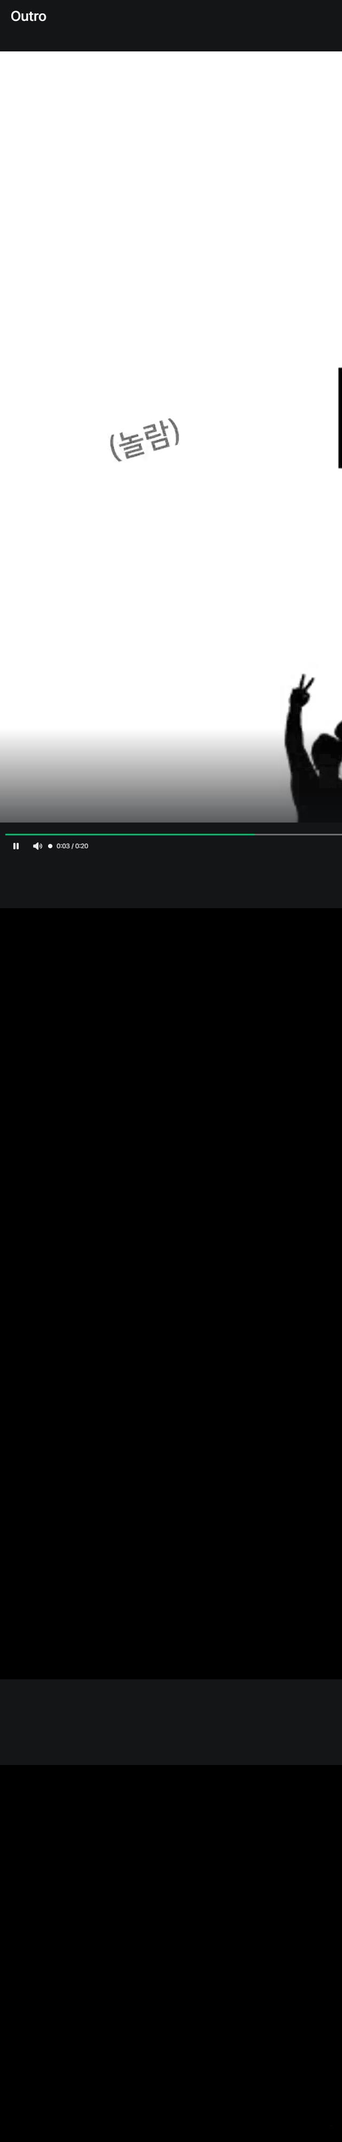
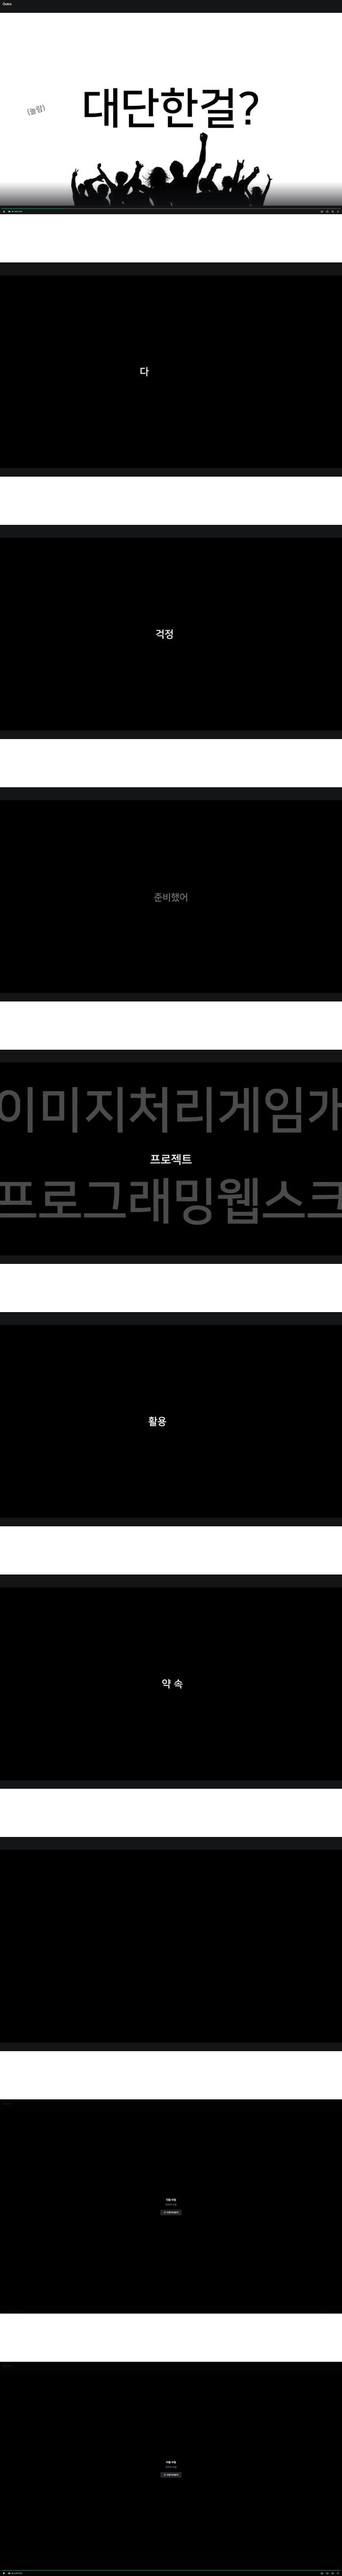
docs: `README.md` - gui_project 이미지 통합시 이미지 간격 및 확장자 옵션 적용2 예제 및 가이드

diff --git a/gui_project/docs/README.md b/gui_project/docs/README.md
@@ -1584,7 +1584,7 @@ heights = (480, 600, 768)
 이전 단계에서는 이미지들의 원본 크기를 기준으로 결과 이미지의 전체 크기를 계산했다.  
 이번 단계에서는 사용자가 선택한 `가로넓이` 옵션을 반영해서, 이미지가 병합될 때 사용할 크기를 먼저 계산한다.  
 
-즉, 기존에는 `x.size`를 그대로 사용했다면, 이제는 `원본 유지`인지, `1024`, `800`, `640`처럼 지정된 너비인지에 따라 `imgage_sizes` 목록을 새로 만든다.  
+즉, 기존에는 `x.size`를 그대로 사용했다면, 이제는 `원본 유지`인지, `1024`, `800`, `640`처럼 지정된 너비인지에 따라 `image_sizes` 목록을 새로 만든다.  
 
 ## 1. A) 기존 크기 계산 방식
 
@@ -1640,19 +1640,19 @@ heights = (480, 600, 768)
     images = [Image.open(x) for x in list_file.get(0, END)] # 이미지 객체 저장
 
     # 이미지 사이즈 리스트에 넣어 하나씩 처리
-    imgage_sizes = [] # (width1, height1), (width2, height2)
+    image_sizes = [] # (width1, height1), (width2, height2)
     if img_width > -1:
       # width 값 변경
-      imgage_sizes = [(int(img_width), int(img_width * x.size[1] / x.size[0])) for x in images]
-      print("image_sizes = ", imgage_sizes)
+      image_sizes = [(int(img_width), int(img_width * x.size[1] / x.size[0])) for x in images]
+      print("image_sizes = ", image_sizes)
     else:
       # 원본 사이즈 사용
-      imgage_sizes = [(x.size[0], x.size[1]) for x in images]
+      image_sizes = [(x.size[0], x.size[1]) for x in images]
 
     # 생략
   ```
 
-기존에는 `x.size`에서 바로 가로와 세로를 꺼냈지만, 이제는 먼저 `imgage_sizes`라는 별도 목록을 만든다.  
+기존에는 `x.size`에서 바로 가로와 세로를 꺼냈지만, 이제는 먼저 `image_sizes`라는 별도 목록을 만든다.  
 이 목록에는 최종 계산에 사용할 `(width, height)` 값들이 들어간다.  
 
 - 원본 유지: `(원본 width, 원본 height)`
@@ -1673,7 +1673,7 @@ heights = (480, 600, 768)
   ```py
   def merge_image():
     # 생략
-    imgage_sizes = [(int(img_width), int(img_width * x.size[1] / x.size[0])) for x in images]
+    image_sizes = [(int(img_width), int(img_width * x.size[1] / x.size[0])) for x in images]
     # 생략
   ```
 
@@ -1689,7 +1689,7 @@ new_height = int(800 * 300 / 500)
 ## 5. E) 계산된 크기 기준으로 캔버스 만들기
 
 이미지 크기 목록을 만든 뒤에는 기존과 같은 방식으로 `zip(*)`을 사용한다.  
-차이점은 `x.size`가 아니라 옵션이 반영된 `imgage_sizes`를 기준으로 분리한다는 점이다.  
+차이점은 `x.size`가 아니라 옵션이 반영된 `image_sizes`를 기준으로 분리한다는 점이다.  
 
 - [6.apply_options.py](../6.apply_options.py)
   ```py
@@ -1698,7 +1698,7 @@ new_height = int(800 * 300 / 500)
     # size → size[0] : width, size[1] : height
     # zip(*)을 이용해 이미지 배열에서 가로·세로 크기를 한 번에 분리 및 추출
     # widths, heights = zip(*[x.size for x in images]) 
-    widths, heights = zip(*(imgage_sizes)) 
+    widths, heights = zip(*(image_sizes)) 
     print("widths = ", widths)
     print("heights = ", heights)
 
@@ -1711,7 +1711,7 @@ new_height = int(800 * 300 / 500)
 이전 단계와 비교하면 기준 데이터가 바뀌었다.  
 
 - 기존: `zip(*[x.size for x in images])`
-- 변경: `zip(*(imgage_sizes))`
+- 변경: `zip(*(image_sizes))`
 
 따라서 결과 캔버스의 크기도 원본 이미지 기준이 아니라, 옵션이 적용된 이미지 크기 기준으로 계산된다.  
 
@@ -1735,19 +1735,19 @@ new_height = int(800 * 300 / 500)
     images = [Image.open(x) for x in list_file.get(0, END)] # 이미지 객체 저장
 
     # 이미지 사이즈 리스트에 넣어 하나씩 처리
-    imgage_sizes = [] # (width1, height1), (width2, height2)
+    image_sizes = [] # (width1, height1), (width2, height2)
     if img_width > -1:
       # width 값 변경
-      imgage_sizes = [(int(img_width), int(img_width * x.size[1] / x.size[0])) for x in images]
-      print("image_sizes = ", imgage_sizes)
+      image_sizes = [(int(img_width), int(img_width * x.size[1] / x.size[0])) for x in images]
+      print("image_sizes = ", image_sizes)
     else:
       # 원본 사이즈 사용
-      imgage_sizes = [(x.size[0], x.size[1]) for x in images]
+      image_sizes = [(x.size[0], x.size[1]) for x in images]
 
     # size → size[0] : width, size[1] : height
     # zip(*)을 이용해 이미지 배열에서 가로·세로 크기를 한 번에 분리 및 추출
     # widths, heights = zip(*[x.size for x in images]) 
-    widths, heights = zip(*(imgage_sizes)) 
+    widths, heights = zip(*(image_sizes)) 
     print("widths = ", widths)
     print("heights = ", heights)
 
@@ -1762,11 +1762,204 @@ new_height = int(800 * 300 / 500)
 1. `cmb_width.get()`으로 사용자가 선택한 가로넓이 옵션을 가져온다.  
 2. `"원본 유지"`이면 `img_width`를 `-1`로 두고 원본 크기를 사용하도록 표시한다.  
 3. 숫자 옵션이면 `int(img_width)`로 정수 변환한다.  
-4. 이미지 목록을 열고, 병합에 사용할 크기 목록 `imgage_sizes`를 만든다.  
-5. 원본 유지일 때는 `x.size` 값을 그대로 `imgage_sizes`에 넣는다.  
-6. 너비 지정일 때는 선택한 가로값과 비율로 계산한 세로값을 `imgage_sizes`에 넣는다.  
-7. `zip(*(imgage_sizes))`로 가로 목록과 세로 목록을 분리한다.  
+4. 이미지 목록을 열고, 병합에 사용할 크기 목록 `image_sizes`를 만든다.  
+5. 원본 유지일 때는 `x.size` 값을 그대로 `image_sizes`에 넣는다.  
+6. 너비 지정일 때는 선택한 가로값과 비율로 계산한 세로값을 `image_sizes`에 넣는다.  
+7. `zip(*(image_sizes))`로 가로 목록과 세로 목록을 분리한다.  
 8. `max(widths)`, `sum(heights)`로 결과 이미지 캔버스 크기를 계산한다.  
+
+</details>
+<br>
+<hr>
+<br>
+
+# 예제 11) 옵션 적용 2 - 리사이즈, 간격, 포맷 반영
+## 목차
+
+1. A) 이미지 크기 목록 변수명 정리
+2. B) 간격 옵션을 결과 높이에 반영
+3. C) 이미지 붙이기 전에 리사이즈 적용
+4. D) 이미지 사이 간격만큼 y 위치 이동
+5. E) 포맷 옵션을 저장 파일명에 반영
+6. 변경 코드 흐름
+
+
+<br>
+<details>
+<summary>접기/펼치기</summary>
+<br>
+
+이전 단계에서는 가로넓이 옵션을 기준으로 `image_sizes`를 계산하고, 그 값을 이용해 결과 이미지 캔버스 크기를 정했다.  
+이번 단계에서는 계산된 옵션값을 실제 이미지 병합 과정에 반영한다.  
+
+즉, 캔버스 크기만 옵션 기준으로 계산하는 것이 아니라, 실제로 붙이는 이미지도 리사이즈하고, 이미지 사이 간격도 적용하고, 저장 파일 확장자도 선택한 포맷에 맞춘다.  
+
+## 1. A) 이미지 크기 목록 변수명 정리
+
+이미지 크기 목록 변수명이 `imgage_sizes`에서 `image_sizes`로 정리되었다.  
+역할은 동일하게, 병합에 사용할 각 이미지의 최종 `(width, height)` 값을 저장한다.  
+
+- [6.apply_options.py](../6.apply_options.py)
+  ```py
+  def merge_image():
+    # 생략
+    # 이미지 사이즈 리스트에 넣어 하나씩 처리
+    image_sizes = [] # (width1, height1), (width2, height2)
+    if img_width > -1:
+      # width 값 변경
+      image_sizes = [(int(img_width), int(img_width * x.size[1] / x.size[0])) for x in images]
+      print("image_sizes = ", image_sizes)
+    else:
+      # 원본 사이즈 사용
+      image_sizes = [(x.size[0], x.size[1]) for x in images]
+
+    # 생략
+  ```
+
+이후 가로/세로 크기를 분리할 때도 `image_sizes`를 기준으로 한다.  
+
+- [6.apply_options.py](../6.apply_options.py)
+  ```py
+  def merge_image():
+    # 생략
+    widths, heights = zip(*(image_sizes)) 
+    print("widths = ", widths)
+    print("heights = ", heights)
+    # 생략
+  ```
+
+## 2. B) 간격 옵션을 결과 높이에 반영
+
+이미지 사이에 간격을 넣으려면 결과 이미지의 전체 세로 높이도 그만큼 늘어나야 한다.  
+간격은 이미지 사이에만 들어가므로, 이미지가 `n`장이라면 간격은 `n - 1`번 생긴다.  
+
+- [6.apply_options.py](../6.apply_options.py)
+  ```py
+  def merge_image():
+    # 생략
+    max_width, total_height = max(widths), sum(heights)
+    # 스케치북 준비
+    
+    if img_space > 0: # 이미지 간격 옵션 적용
+      total_height += (img_space * (len(images) - 1))
+
+    result_img = Image.new("RGB", (max_width, total_height), (255, 255, 255)) # 배경 흰색
+    # 생략
+  ```
+
+예를 들어 이미지가 4장이고 간격 옵션이 `좁게`라서 `img_space`가 30이라면, 간격은 3번 들어간다.  
+따라서 전체 높이에 `30 * (4 - 1)`만큼 추가한다.  
+
+## 3. C) 이미지 붙이기 전에 리사이즈 적용
+
+가로넓이 옵션에서 `1024`, `800`, `640`처럼 특정 너비를 선택한 경우, 실제로 붙일 이미지도 계산된 크기로 바꿔야 한다.  
+그래서 `paste()` 전에 `resize()`를 호출한다.  
+
+- [6.apply_options.py](../6.apply_options.py)
+  ```py
+  def merge_image():
+    # 생략
+    for idx, img in enumerate(images):
+      # width가 원본유지가 아닐 경우 이미지 크기 조정
+      if img_width > -1:
+        img = img.resize(image_sizes[idx])
+
+      result_img.paste(img, (0, y_offset))
+      # 생략
+  ```
+
+`image_sizes[idx]`는 현재 이미지가 변경되어야 할 `(width, height)` 값이다.  
+`img_width`가 `-1`이면 `원본 유지`이므로 리사이즈하지 않고 원본 이미지를 그대로 붙인다.  
+
+## 4. D) 이미지 사이 간격만큼 y 위치 이동
+
+이미지를 하나 붙인 뒤에는 다음 이미지가 붙을 y 위치를 아래로 이동시켜야 한다.  
+기존에는 현재 이미지의 높이만큼만 이동했지만, 이제는 사용자가 선택한 간격도 함께 더한다.  
+
+- [6.apply_options.py](../6.apply_options.py)
+  ```py
+  def merge_image():
+    # 생략
+    y_offset = 0 # 이미지가 첨부될 Y 위치(이미지가 첨부될때마다 동적으로 변경됨)
+    for idx, img in enumerate(images):
+      # 생략
+      result_img.paste(img, (0, y_offset))
+      y_offset += (img.size[1] + img_space) # 현재 추가된 image의 높이값을 누적 + 사용자가 지정한 간격
+
+      # 생략
+  ```
+
+`img.size[1]`은 현재 붙인 이미지의 높이다.  
+여기에 `img_space`를 더하면 다음 이미지가 현재 이미지 바로 아래가 아니라, 지정한 간격만큼 떨어진 위치에 붙는다.  
+
+## 5. E) 포맷 옵션을 저장 파일명에 반영
+
+기존에는 결과 파일명이 항상 `nado_photo.jpg`였다.  
+이제는 사용자가 선택한 포맷 옵션을 확장자에 반영한다.  
+
+- [6.apply_options.py](../6.apply_options.py)
+  ```py
+  def merge_image():
+    # 생략
+    # 포맷 옵션 처리
+    file_name = "nado_photo." + img_format
+    dest_path = os.path.join(txt_dest_path.get(), file_name)
+    result_img.save(dest_path)
+    msgbox.showinfo("알림", "작업이 완료되었습니다.")
+  ```
+
+`img_format`은 앞에서 `cmb_format.get().lower()`로 만든 값이다.  
+따라서 콤보박스에서 `PNG`를 선택하면 `png`, `JPG`를 선택하면 `jpg`, `BMP`를 선택하면 `bmp`가 된다.  
+
+- `PNG` 선택: `nado_photo.png`
+- `JPG` 선택: `nado_photo.jpg`
+- `BMP` 선택: `nado_photo.bmp`
+
+## 6. 변경 코드 흐름
+
+- [6.apply_options.py](../6.apply_options.py)
+  ```py
+  def merge_image():
+    # 생략
+    widths, heights = zip(*(image_sizes)) 
+
+    max_width, total_height = max(widths), sum(heights)
+    # 스케치북 준비
+    
+    if img_space > 0: # 이미지 간격 옵션 적용
+      total_height += (img_space * (len(images) - 1))
+
+    result_img = Image.new("RGB", (max_width, total_height), (255, 255, 255)) # 배경 흰색
+    y_offset = 0 # 이미지가 첨부될 Y 위치(이미지가 첨부될때마다 동적으로 변경됨)
+    for idx, img in enumerate(images):
+      # width가 원본유지가 아닐 경우 이미지 크기 조정
+      if img_width > -1:
+        img = img.resize(image_sizes[idx])
+
+      result_img.paste(img, (0, y_offset))
+      y_offset += (img.size[1] + img_space) # 현재 추가된 image의 높이값을 누적 + 사용자가 지정한 간격
+
+      # progress 계산(percent)
+      progress = (idx + 1) / len(images) * 100
+      p_var.set(progress)
+      progress_bar.update()
+
+    # 포맷 옵션 처리
+    file_name = "nado_photo." + img_format
+    dest_path = os.path.join(txt_dest_path.get(), file_name)
+    result_img.save(dest_path)
+    msgbox.showinfo("알림", "작업이 완료되었습니다.")
+  ```
+
+옵션 2 적용 흐름은 아래 순서로 볼 수 있다.  
+
+1. `image_sizes`를 기준으로 결과 이미지의 가로와 세로 크기를 계산한다.  
+2. 간격 옵션이 있으면 이미지 사이 개수만큼 `total_height`를 늘린다.  
+3. 결과 이미지를 만들 때 늘어난 `total_height`를 사용한다.  
+4. 가로넓이 옵션이 원본 유지가 아니면 `img.resize(image_sizes[idx])`로 실제 이미지를 리사이즈한다.  
+5. 이미지를 붙인 뒤 `img.size[1] + img_space`만큼 `y_offset`을 이동한다.  
+6. 선택한 포맷을 파일 확장자로 사용해서 결과 파일명을 만든다.  
+7. 최종 이미지를 선택한 저장 경로에 저장한다.  
 
 </details>
 <br>
